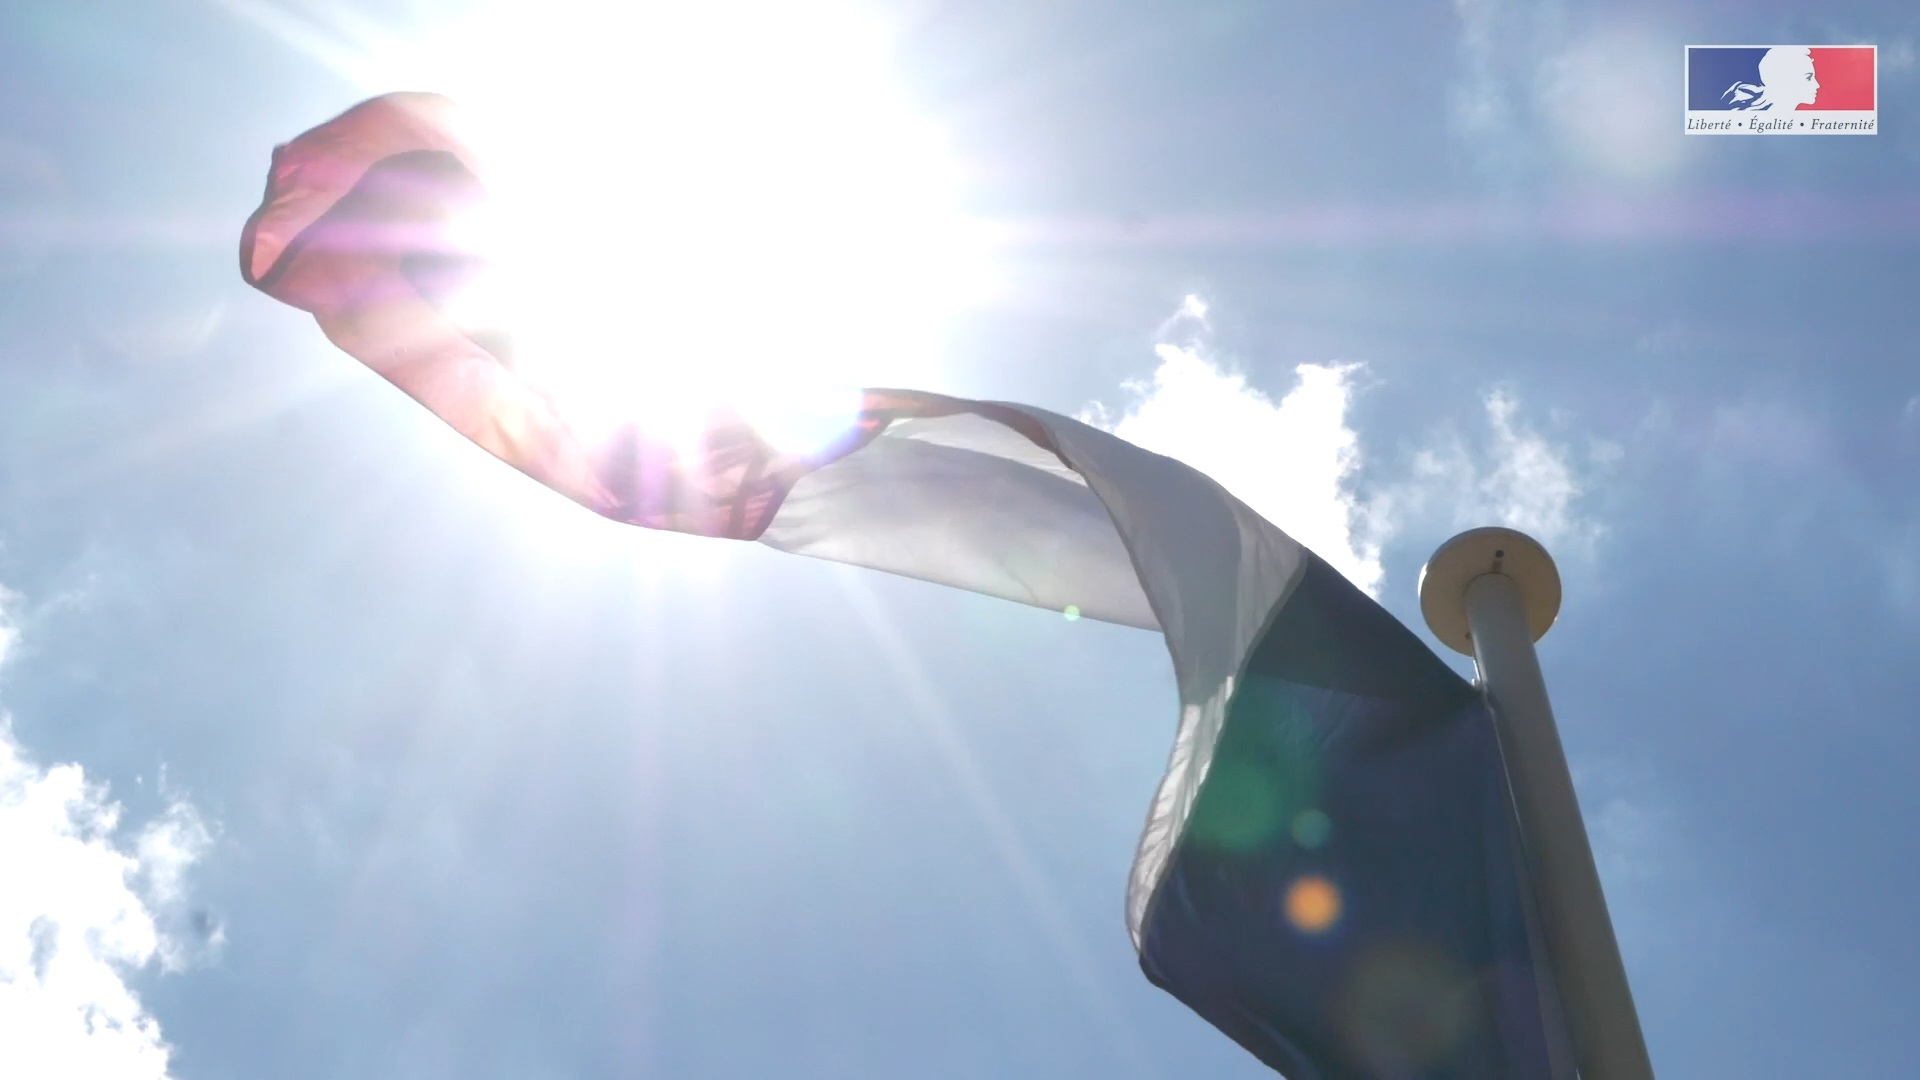
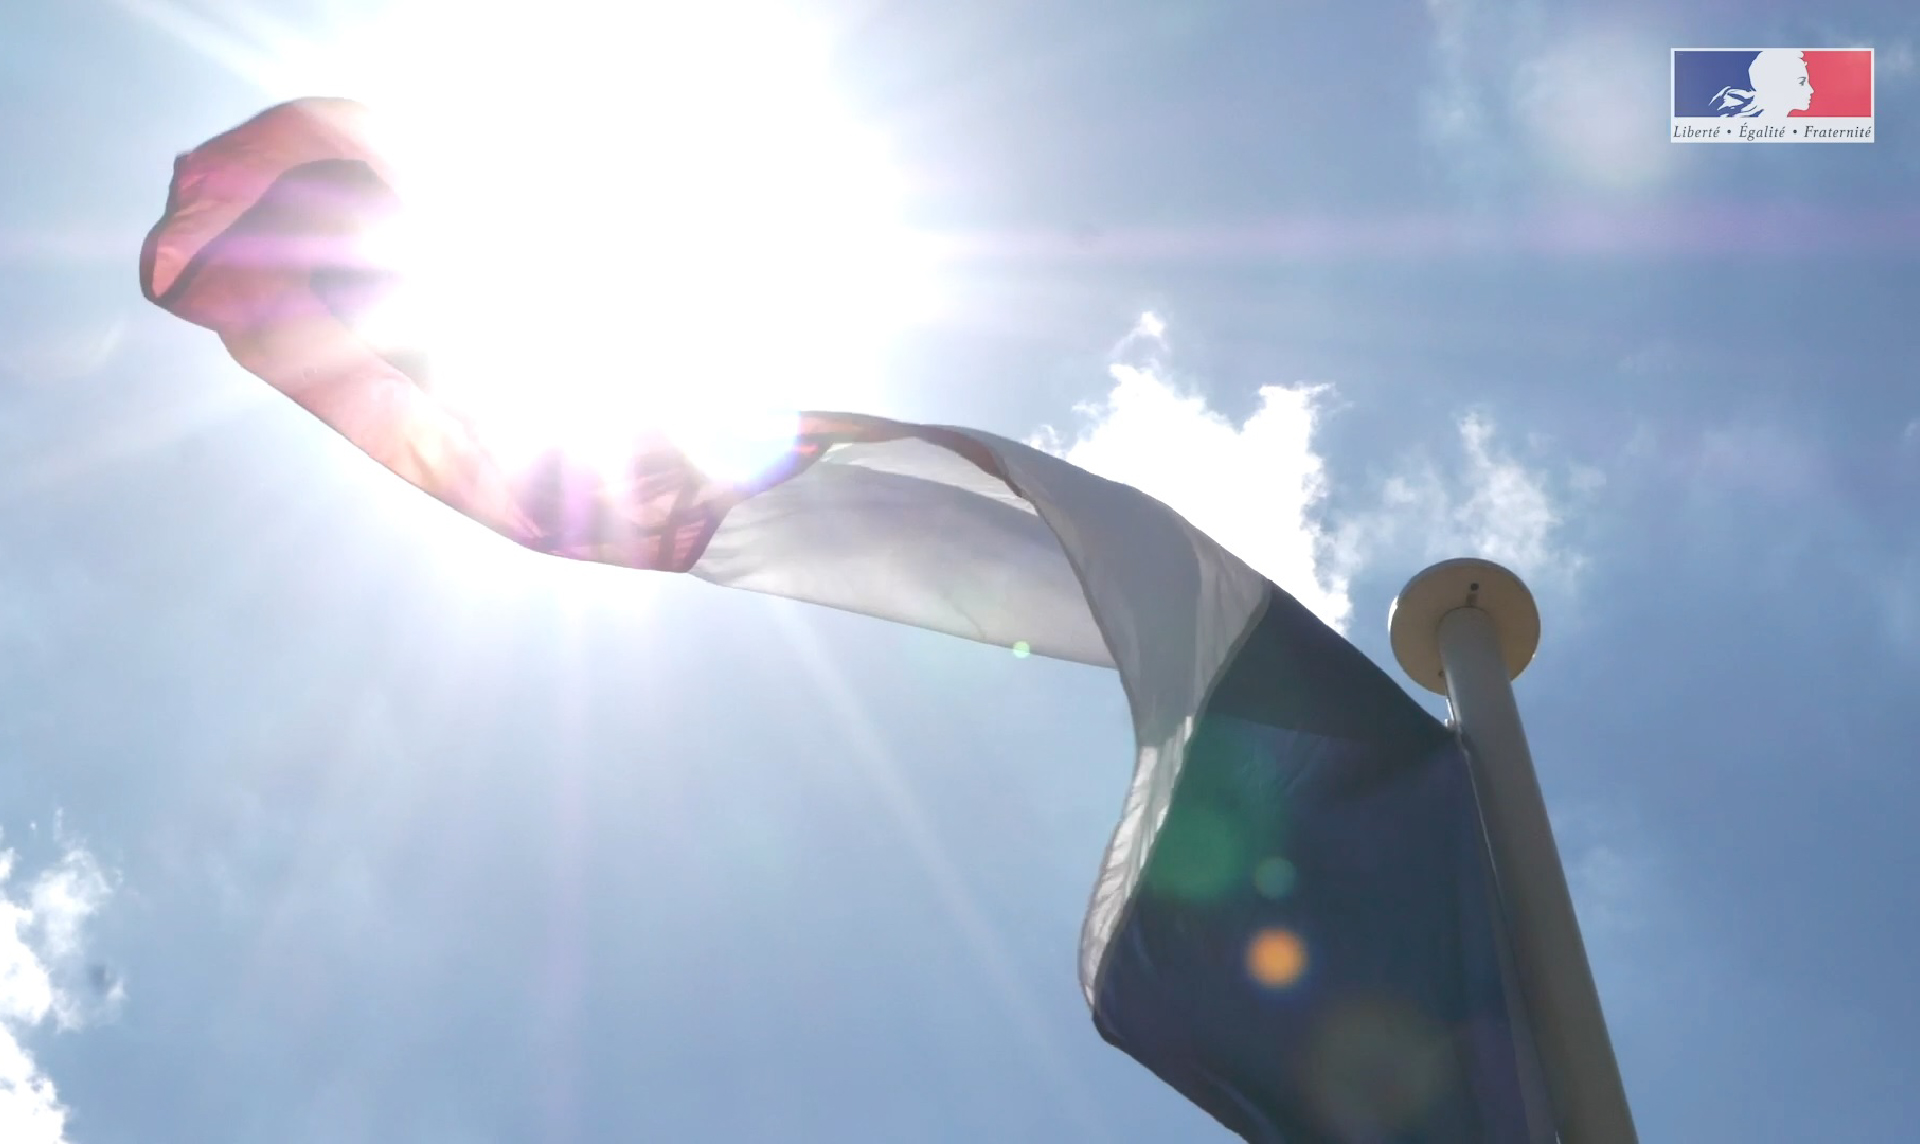
modif ordre video portfolio + rectif format image video

diff --git a/js/data.js b/js/data.js
@@ -52,15 +52,6 @@ let data = {
                    "equipe" : []
                },
                {
-                   "titre": "Combustion",
-                   "sousTitre": "48H / Kino",
-                   "image": "./img/icones_videos/combustion.jpg",
-                   "description" : "Combustion est un projet réalisé en 48h dans le cadre du KINO, une expérience cinématographique que met en place un professeur lors de son temps libre chaque année. C’est mon premier projet en noir et blanc que l’on a écris, tourné et monté dans le rush en 48h avec <a class='lien_int' href='https://www.jacquetlourealisation.com/films' target='_blank'>Lou</a>, <a class='lien_int' href='https://www.behance.net/charlottecottin?tracking_source=search_users_recommended%7Ccharlotte%20cottin' target='_blank'>Charlotte</a> et Rémi. Ces projets réalisés en généralement un, deux ou trois jours sont des exercices très formateurs car ils apprennent à travailler en équipe l’efficacité et l’organisation avec des gens que vous ne connaissez pas forcément qui se regroupent juste pour l'expérience très excitante. Cela oblige à donner son maximum pendant un temps limité et à agir de manière professionnelle. Très plaisant et gratifiant, j’ai hâte d’en refaire. </br>Dans ce court-métrage, deux personnes font un pari sur un homme d’apparence très mystérieuse…",
-                   "materiel" : ["Camescope Canon C200", "Objectif Rokinon 35mm T1.5", "Rokinon 85mm T1.5", "Objectif Canon EF 70-200mm f/2.8 IS II USM", "Ecran SmallHD"],
-                   "lien_video" : `<iframe src="https://player.vimeo.com/video/471892988" width="640" height="360" frameborder="0" allow="autoplay; fullscreen" allowfullscreen></iframe>`,
-                   "equipe" : [`<a ${class_target} href='https://www.jacquetlourealisation.com/films'>Lou JACQUET ${icone}</a>`, "Remi LAMOUR",`<a ${class_target} href='https://www.behance.net/charlottecottin?tracking_source=search_users_recommended%7Ccharlotte%20cottin'>Charlotte COTTIN ${icone}</a>`]
-               },
-               {
                    "titre": "J’ai viré – Deuzel",
                    "sousTitre": "Clip vidéo",
                    "image": "./img/icones_videos/jai_vire.jpg",
@@ -68,15 +59,6 @@ let data = {
                    "materiel" : ["Panasonic Lumix GH5", "Objectif Hybride Panasonic Lumix G Vario 12-60 mm f/3.5-5.6", "RONIN S"],
                    "lien_video" : `<iframe src="https://player.vimeo.com/video/471897334" width="640" height="564" frameborder="0" allow="autoplay; fullscreen" allowfullscreen></iframe>`,
                    "equipe" : [`<a ${class_target} href='https://www.youtube.com/channel/UCRv_lc9UU5Mh1w2rHmMPIvQ'>Martin BOUVET ${icone}</a>`, "Mathis CHANIOL"]
-               },
-               {
-                   "titre": "Déréliction",
-                   "sousTitre": "Clip vidéo",
-                   "image": "./img/icones_videos/dereliction.jpg",
-                   "description" : "Déréliction est un Clip vidéo mettant en scène une fille chamboulée par son quotidien dans lequel elle s'isole malgré elle. Ce « sentiment d’abandon et de solitude morale » - tel que le défini le titre du projet - que vit la protagoniste met le projecteur sur ces zones d’ombres si importantes et que beaucoup de personnes intériorisent. Le projet tente de s’inclure dans le mouvement de la postmodernité et utilise des procédés de la métalepse narrative. <br/>Comme la plupart de mes projets, je garde en mémoire à jamais les expériences uniques de contextes de tournages comme ici les lames de couteaux du vent arctique glacial au bord du lac qui viennent fouetter nos visages et une neige abondante apportant un décor absolument extraordinaire. Des ambiances féériques et fabuleuses qui permettent de rajouter de la magie à ces projets très formateurs durant cette année canadienne.",
-                   "materiel" : ["Camescope Canon C200","Stabilisateur Glidecam X-22 (avec veste et bras)", "Ecran SmallHD", "Caméra Canon 6D Mark II", "Objectif Sigma 18-35mm F1.8", "Objectif Canon EF 100mm f/2.8L Macro IS USM", "Éclairage LED Aputure LS C120D II", "Éclairage LED Amaran", "Aputure Light Dome 2", "Microphone omnidirectionnel Sennheiser ME62-K6", "Enregistreur audio Zoom H4n et Zoom H6", "Panasonic Lumix GH5","Objectif Hybride Panasonic Lumix G Vario 12-60 mm f/3.5-5.6"],
-                   "lien_video" : `<iframe src="https://player.vimeo.com/video/471897548" width="640" height="360" frameborder="0" allow="autoplay; fullscreen" allowfullscreen></iframe>`,
-                   "equipe" : [`<a ${class_target} href='https://elisasibert.myportfolio.com/home'>Élisa SIBERT ${icone}</a>`, "Anaïs VERRIER", "Clara GUYOT"]
                },
                {
                    "titre": "Apocalypse Snow",
@@ -104,6 +86,15 @@ let data = {
                    "materiel" : ["Sony Alpha 7 III", "Série optique Samyang"],
                    "lien_video" : `<iframe src="https://player.vimeo.com/video/662362058" width="640" height="360" frameborder="0" allow="autoplay; fullscreen" allowfullscreen></iframe>`,
                    "equipe" : [`<a ${class_target} href='https://www.jacquetlourealisation.com/films'>Lou JACQUET ${icone}</a>`,`<a ${class_target} href='https://www.nathanael-rovere.fr/index.html'>Nathanaël ROVERE ${icone}</a>`, "Tristan GROSSETTI", "Hugo VILLARD"]
+               },
+               {
+                   "titre": "Combustion",
+                   "sousTitre": "48H / Kino",
+                   "image": "./img/icones_videos/combustion.jpg",
+                   "description" : "Combustion est un projet réalisé en 48h dans le cadre du KINO, une expérience cinématographique que met en place un professeur lors de son temps libre chaque année. C’est mon premier projet en noir et blanc que l’on a écris, tourné et monté dans le rush en 48h avec <a class='lien_int' href='https://www.jacquetlourealisation.com/films' target='_blank'>Lou</a>, <a class='lien_int' href='https://www.behance.net/charlottecottin?tracking_source=search_users_recommended%7Ccharlotte%20cottin' target='_blank'>Charlotte</a> et Rémi. Ces projets réalisés en généralement un, deux ou trois jours sont des exercices très formateurs car ils apprennent à travailler en équipe l’efficacité et l’organisation avec des gens que vous ne connaissez pas forcément qui se regroupent juste pour l'expérience très excitante. Cela oblige à donner son maximum pendant un temps limité et à agir de manière professionnelle. Très plaisant et gratifiant, j’ai hâte d’en refaire. </br>Dans ce court-métrage, deux personnes font un pari sur un homme d’apparence très mystérieuse…",
+                   "materiel" : ["Camescope Canon C200", "Objectif Rokinon 35mm T1.5", "Rokinon 85mm T1.5", "Objectif Canon EF 70-200mm f/2.8 IS II USM", "Ecran SmallHD"],
+                   "lien_video" : `<iframe src="https://player.vimeo.com/video/471892988" width="640" height="360" frameborder="0" allow="autoplay; fullscreen" allowfullscreen></iframe>`,
+                   "equipe" : [`<a ${class_target} href='https://www.jacquetlourealisation.com/films'>Lou JACQUET ${icone}</a>`, "Remi LAMOUR",`<a ${class_target} href='https://www.behance.net/charlottecottin?tracking_source=search_users_recommended%7Ccharlotte%20cottin'>Charlotte COTTIN ${icone}</a>`]
                },
                {
                    "titre": "Le ski de randonnée - Échaillon",
@@ -150,22 +141,31 @@ let data = {
                    "lien_video" : `<iframe src="https://player.vimeo.com/video/471897764" width="640" height="360" frameborder="0" allow="autoplay; fullscreen" allowfullscreen></iframe>`,
                    "equipe" : [`<a ${class_target} href='https://www.youtube.com/channel/UCRv_lc9UU5Mh1w2rHmMPIvQ'>Martin BOUVET ${icone}</a>`, "Mathis CHANIOL"]
                },
+         //      {
+        //           "titre": "Pain et Compagnie",
+        //           "sousTitre": "Projet Esthétique",
+        //           "image": "./img/icones_videos/pain_et_compagnie.jpg",
+        //           "description" : "Pain et compagnie est un projet qui part d’une envie soudaine de prendre des images d’un instant que j’ai voulu immortaliser : Du pain au levain fraîchement sorti du four. C’était aussi l’occasion de d’exploiter le potentiel du 180 FPS du GH5. Alors, venez déguster du bon pain frais avec sa noisette de beurre et sa pincée de sel !",
+        //           "materiel" : ["Panasonic Lumix GH5", "Objectif Hybride Panasonic Lumix G Vario 12-60 mm f/3.5-5.6"],
+        //           "lien_video" : `<iframe src="https://player.vimeo.com/video/471894515" width="640" height="360" frameborder="0" allow="autoplay; fullscreen" allowfullscreen></iframe>`,
+        //           "equipe" : []
+        //       },
                {
-                   "titre": "Pain et Compagnie",
-                   "sousTitre": "Projet Esthétique",
-                   "image": "./img/icones_videos/pain_et_compagnie.jpg",
-                   "description" : "Pain et compagnie est un projet qui part d’une envie soudaine de prendre des images d’un instant que j’ai voulu immortaliser : Du pain au levain fraîchement sorti du four. C’était aussi l’occasion de d’exploiter le potentiel du 180 FPS du GH5. Alors, venez déguster du bon pain frais avec sa noisette de beurre et sa pincée de sel !",
-                   "materiel" : ["Panasonic Lumix GH5", "Objectif Hybride Panasonic Lumix G Vario 12-60 mm f/3.5-5.6"],
-                   "lien_video" : `<iframe src="https://player.vimeo.com/video/471894515" width="640" height="360" frameborder="0" allow="autoplay; fullscreen" allowfullscreen></iframe>`,
-                   "equipe" : []
+                   "titre": "Déréliction",
+                   "sousTitre": "Clip vidéo",
+                   "image": "./img/icones_videos/dereliction.jpg",
+                   "description" : "Déréliction est un Clip vidéo mettant en scène une fille chamboulée par son quotidien dans lequel elle s'isole malgré elle. Ce « sentiment d’abandon et de solitude morale » - tel que le défini le titre du projet - que vit la protagoniste met le projecteur sur ces zones d’ombres si importantes et que beaucoup de personnes intériorisent. Le projet tente de s’inclure dans le mouvement de la postmodernité et utilise des procédés de la métalepse narrative. <br/>Comme la plupart de mes projets, je garde en mémoire à jamais les expériences uniques de contextes de tournages comme ici les lames de couteaux du vent arctique glacial au bord du lac qui viennent fouetter nos visages et une neige abondante apportant un décor absolument extraordinaire. Des ambiances féériques et fabuleuses qui permettent de rajouter de la magie à ces projets très formateurs durant cette année canadienne.",
+                   "materiel" : ["Camescope Canon C200","Stabilisateur Glidecam X-22 (avec veste et bras)", "Ecran SmallHD", "Caméra Canon 6D Mark II", "Objectif Sigma 18-35mm F1.8", "Objectif Canon EF 100mm f/2.8L Macro IS USM", "Éclairage LED Aputure LS C120D II", "Éclairage LED Amaran", "Aputure Light Dome 2", "Microphone omnidirectionnel Sennheiser ME62-K6", "Enregistreur audio Zoom H4n et Zoom H6", "Panasonic Lumix GH5","Objectif Hybride Panasonic Lumix G Vario 12-60 mm f/3.5-5.6"],
+                   "lien_video" : `<iframe src="https://player.vimeo.com/video/471897548" width="640" height="360" frameborder="0" allow="autoplay; fullscreen" allowfullscreen></iframe>`,
+                   "equipe" : [`<a ${class_target} href='https://elisasibert.myportfolio.com/home'>Élisa SIBERT ${icone}</a>`, "Anaïs VERRIER", "Clara GUYOT"]
                },
-               {
-                   "titre": "Les randonnées en raquette - L'Échaillon",
-                   "sousTitre": "Vidéo corporate",
-                   "image": "./img/icones_videos/Rando_raquettes.jpg",
-                   "description" : "Dans la série des vidéo de l'Échaillon, voici celle d'une journée en raquette. Le plaisir de marcher dans des endroits où les raquettes sont indispensables. Le paysage magnifique, le silence, le blanc omniprésent…",
-                   "materiel" : ["Panasonic Lumix GH5", "Objectif Hybride Panasonic Lumix G Vario 12-60 mm f/3.5-5.6"],
-                   "lien_video" : `<iframe src="https://player.vimeo.com/video/728423579" width="640" height="360" frameborder="0" allow="autoplay; fullscreen" allowfullscreen></iframe>`,
-                   "equipe" : [`<a ${class_target} href='https://www.jacquetlourealisation.com/films'>Lou JACQUET ${icone}</a>`]
-               },
+             //  {
+                  // "titre": "Les randonnées en raquette - L'Échaillon",
+            //       "sousTitre": "Vidéo corporate",
+            //       "image": "./img/icones_videos/Rando_raquettes.jpg",
+            //       "description" : "Dans la série des vidéo de l'Échaillon, voici celle d'une journée en raquette. Le plaisir de marcher dans des endroits où les raquettes sont indispensables. Le paysage magnifique, le silence, le blanc omniprésent…",
+            //       "materiel" : ["Panasonic Lumix GH5", "Objectif Hybride Panasonic Lumix G Vario 12-60 mm f/3.5-5.6"],
+            //      "lien_video" : `<iframe src="https://player.vimeo.com/video/728423579" width="640" height="360" frameborder="0" allow="autoplay; fullscreen" allowfullscreen></iframe>`,
+             //      "equipe" : [`<a ${class_target} href='https://www.jacquetlourealisation.com/films'>Lou JACQUET ${icone}</a>`]
+             //  },
     ]}
